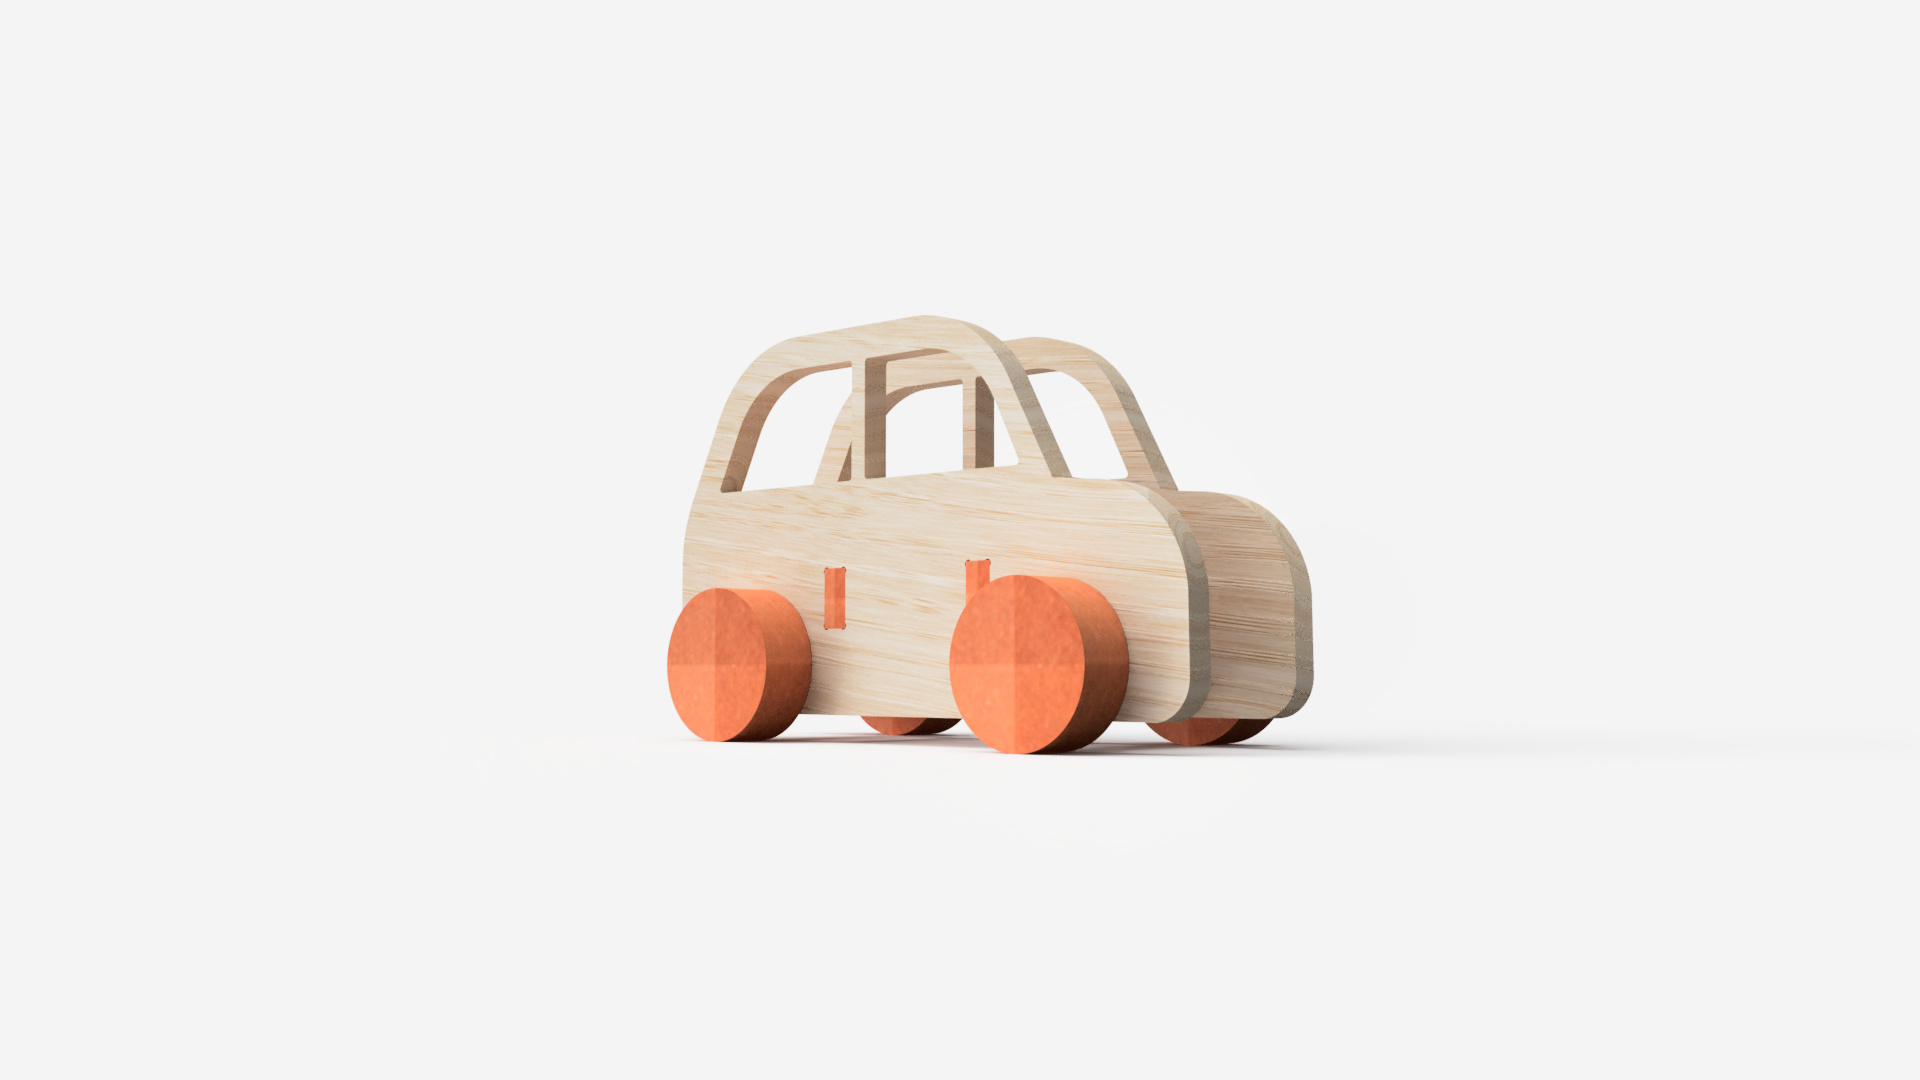
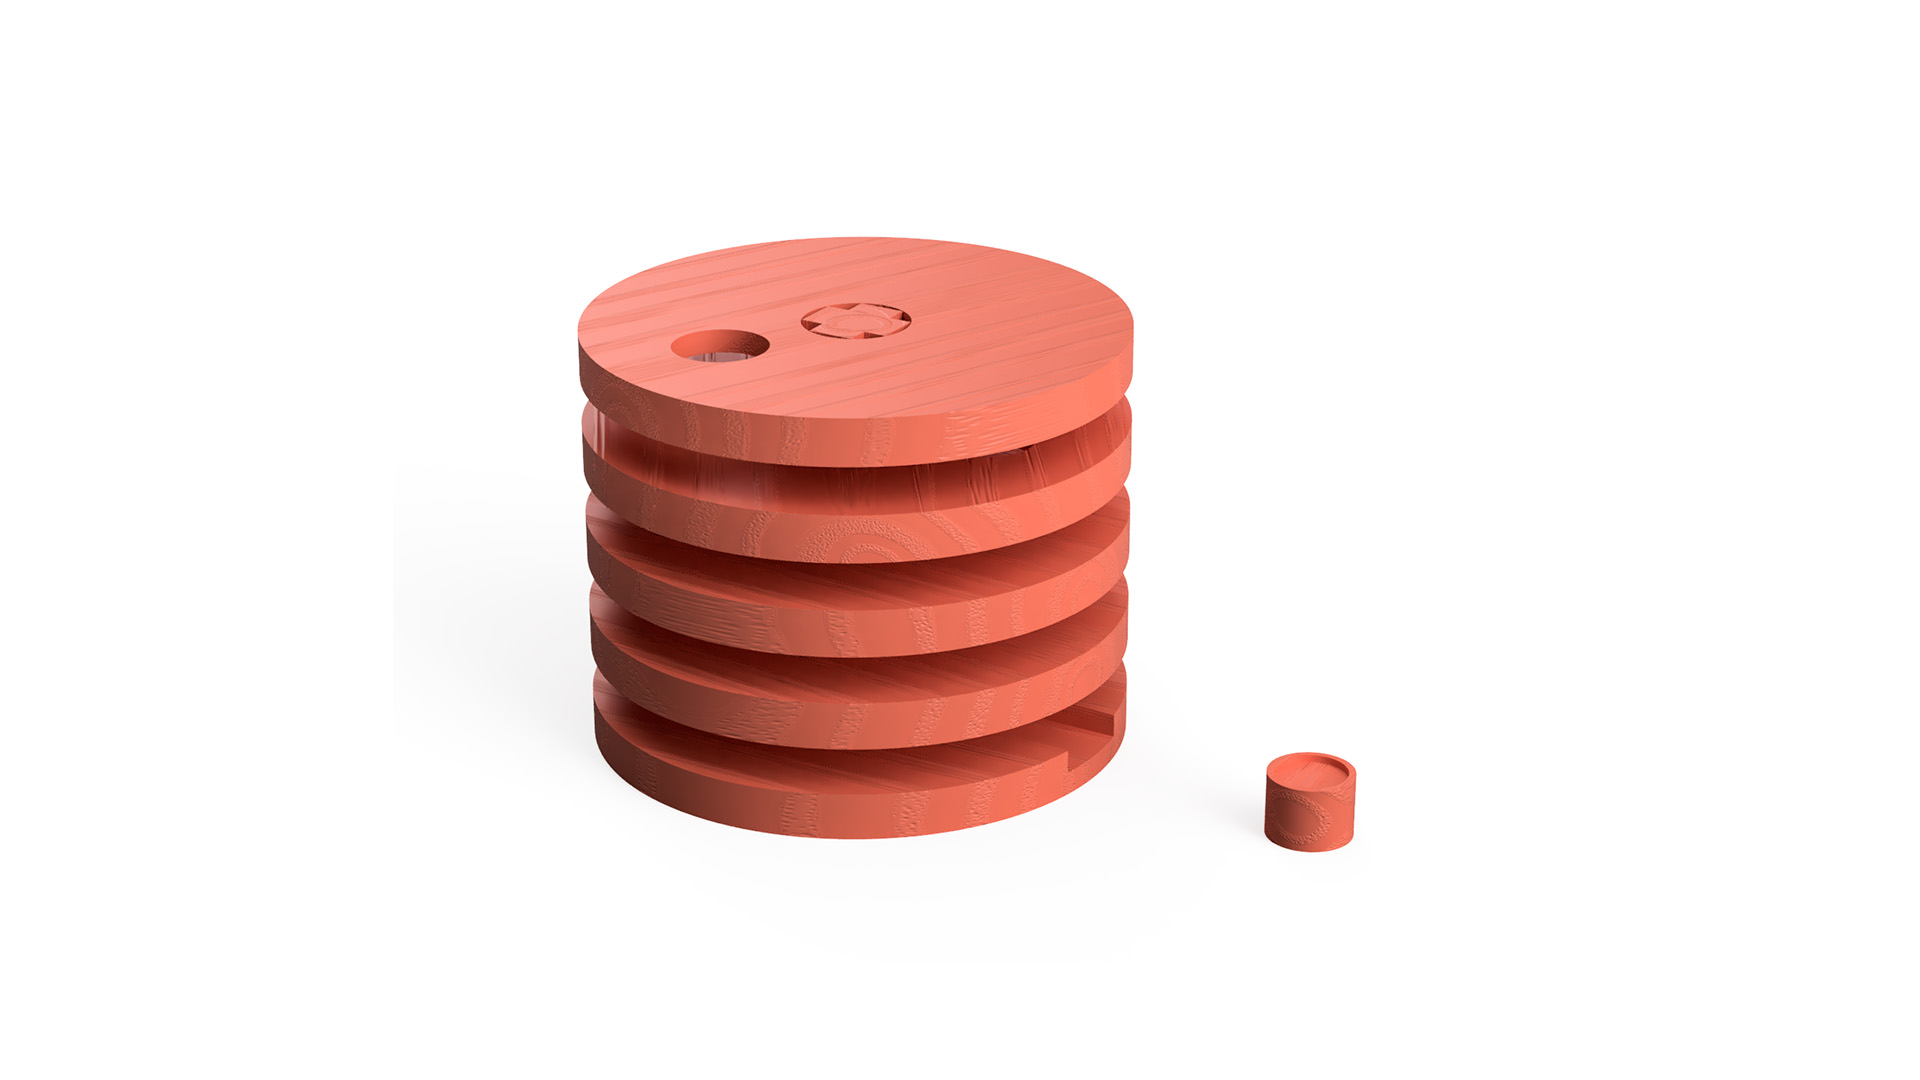
Minha parte Torre Labiribinto
primeiras mudanças ao ficheiro

Changed region(s): [[0.2812, 0.2139, 0.7188, 0.7944]]

diff --git a/produtos/maria/index.md b/produtos/maria/index.md
@@ -1,20 +1,20 @@
 ---
-title: "Nome do Produto"
+title: Torre Labirinto
 icon: lucide/box
 tags: galeria
 status: not-started
 hero_image: attachments/hero.jpg
-hero_title: "Nome do Produto"
-hero_subtitle: "Nome do Aluno · 2025-26"
+hero_title: Torre Labirinto
+hero_subtitle: Maria Carrilho · 2025-26
 hero_height: 80vh
 hero_overlay: 0.25
 hero_align: center
 published: true
-student_name: ""
-student_number: ""
+student_name: Maria Santos Carrilho
+student_number: "2024311"
 ---
 
-# Nome do Produto
+# Torre Labirinto
 
 <!--
   HERO: idealmente uma pseudo-sessão fotográfica do produto
@@ -31,7 +31,7 @@ Segue a estrutura de **prancha-resumo** + **esquema-base** (C-E-T-F).
 
 Ideia central do produto. O que é, para quem, porquê.
 
-![](attachments/placeholder.png)
+![](attachments/PranchaResumo_TorreLabirinto.png)
 
 ## Enquadramento
 
@@ -41,19 +41,24 @@ Posicionamento em relação ao contexto de grupo (ver [contexto](../../contexto.
 
 Materiais (espécie de madeira), processos de fabrico (CNC, laser, impressão 3D), software paramétrico, ficheiros técnicos.
 
-- Modelo 3D: <!-- embed Fusion ou link a360.co -->
+- Modelo 3D: https://a360.co/4dMnO5w 
 - Ficheiros: `attachments/`
 
 ## Função
 
 Como se brinca, idade-alvo, montagem, conformidade com a Diretiva 2009/48/CE.
 
+
+A torre labirinto é constituída por camadas sobrepostas, onde cada tem uma tem um número variado de buracos e de pás de ventoinha. Esse número diminui conforme se chega ao fim.
+
+Para começar, insere-se o disco na primeira camada e para o mover entre o labirinto basta girar a camada de cima do mesmo! As pás de ventoinha carregam o disco na sua aventura.
+
 ## Apresentação
 
 Imagens-chave que sintetizam o produto final.
 
-![](attachments/placeholder.png)
-![](attachments/placeholder.png)
+![](attachments/TorreL_sem_topo.png)
+![](attachments/TorreL_ventoinha.png)![](attachments/TorreL_camadas.png)
 
 ---
 

diff --git a/produtos/maria/processo.md b/produtos/maria/processo.md
@@ -40,7 +40,7 @@ Testes CNC prévios, ensaios em escala, experiências de juntas/encaixes.
 
 Embed do Fusion (visualização do modelo paramétrico).
 
-https://a360.co/4nqYoPa
+https://a360.co/4dMnO5w
 
 ## 5. Outros Modelos
 
@@ -54,8 +54,8 @@ Desenhos manuais,
 pranchas A3 de síntese, 
 exploração de variantes.
 
-![](attachments/placeholder.png)
-
+![](attachments/PranchaResumo_TorreLabirinto.png)
+Prancha-resumo final.
 ## 7. Pesquisa
 
 ### 7.1. Aspectos valorizados do moodboard, desconstrução da forma (o que distingue o programa formal)
@@ -66,7 +66,7 @@ exploração de variantes.
 
 Inventário de precedentes, brinquedos análogos, referências históricas.
 
-![](attachments/placeholder.png)
+![](attachments/TorreL_inspiracao.png)
 
 ## 9. Outros Elementos
 